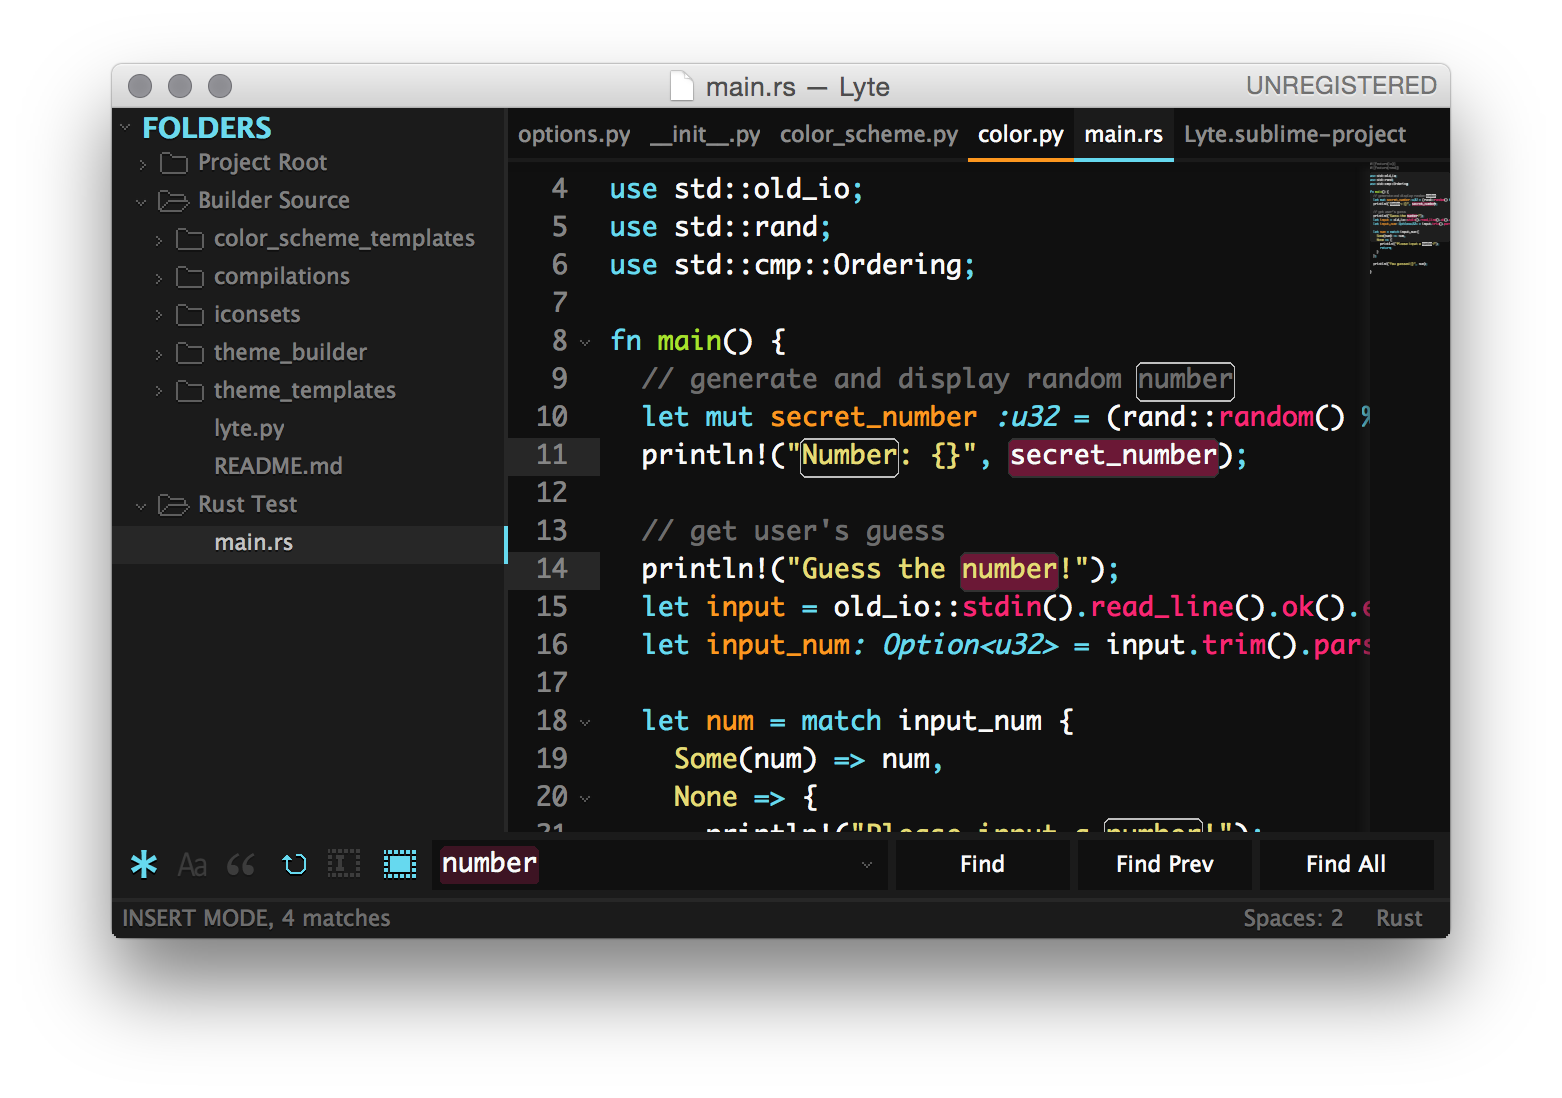
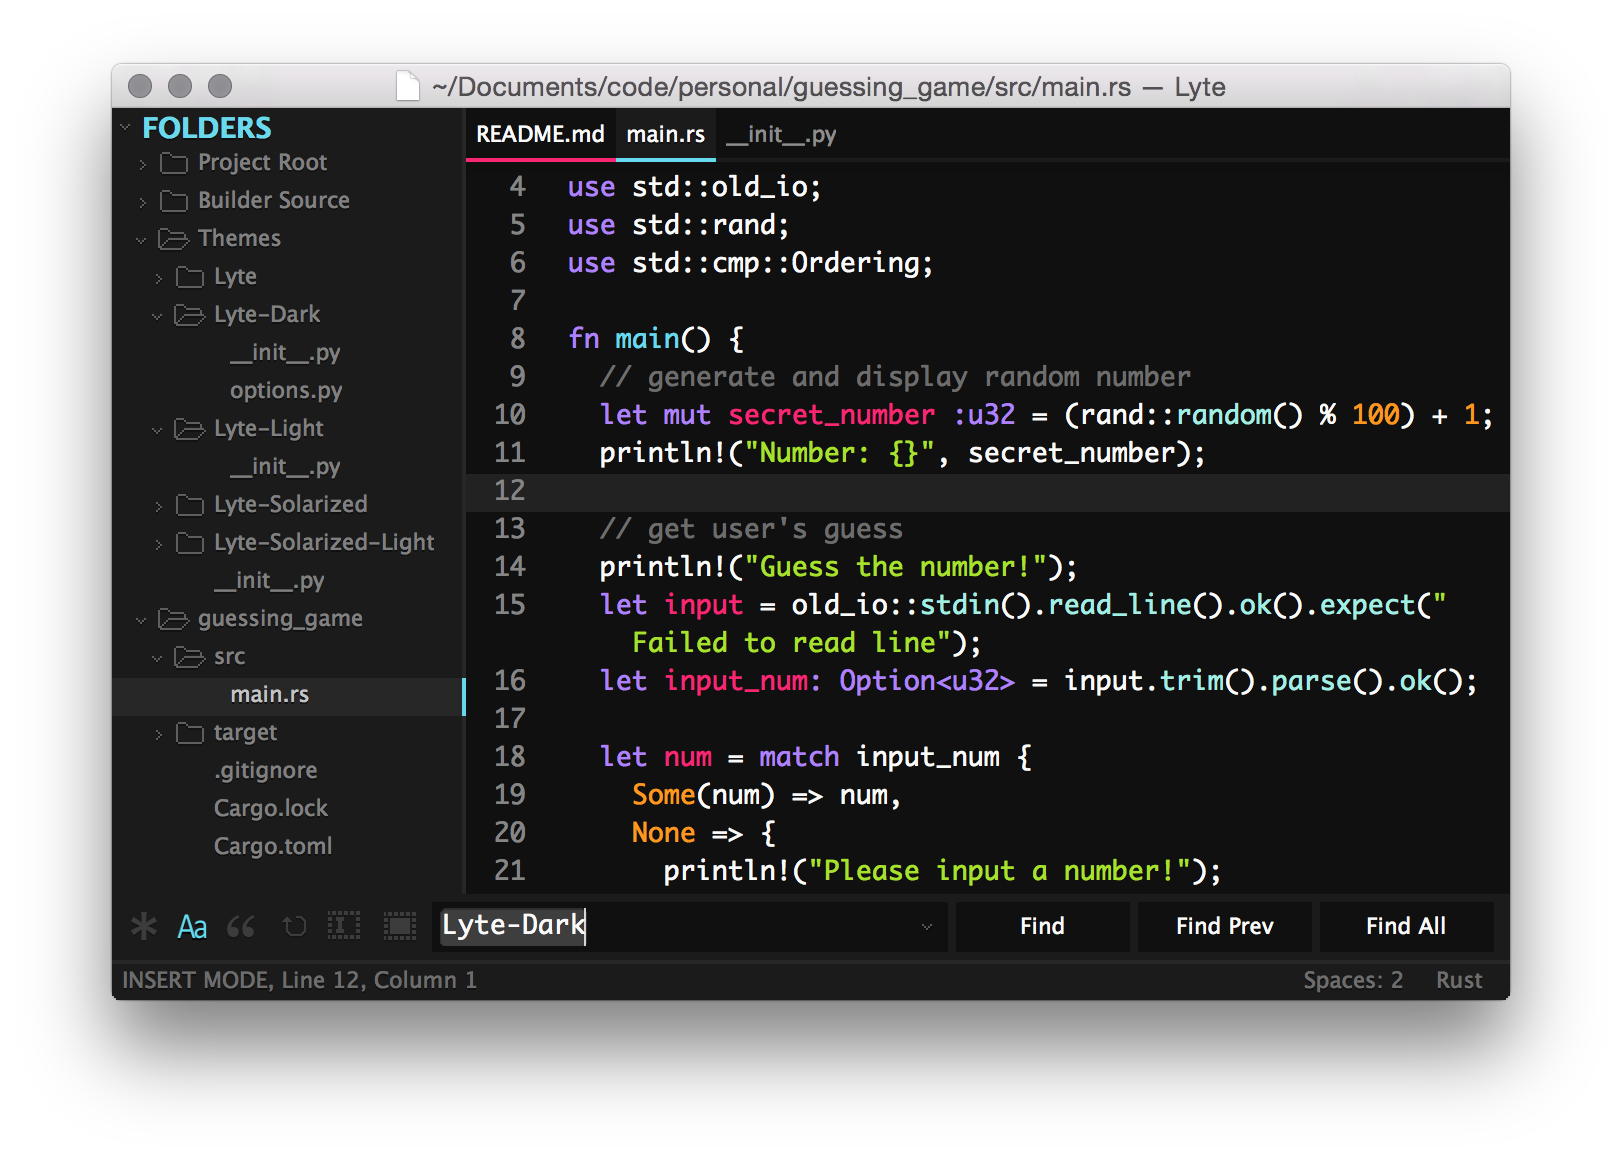
added new screenshots

Changed region(s): [[0.0615, 0.0619, 0.9526, 0.867], [0.8297, 0.7741, 0.8912, 0.8051]]

diff --git a/README.md b/README.md
@@ -7,6 +7,8 @@ Lyte is a set of themes for Sublime Text with fancy-schmancy border file status 
 * Other settings to get your environment to look like this can be found in the Recommendations section
 
 ![Lyte-Dark Theme][9]
+![Lyte-Solarized Theme][10]
+![Lyte-Solarized-Light Theme][11]
 
 ## Installation
 
@@ -200,6 +202,6 @@ The following details apply to the Creative Commons license "author specified" c
 [6]: http://creativecommons.org/licenses/by-sa/3.0/
 [7]: https://github.com/jisaacks/GitGutter
 [9]: https://raw.githubusercontent.com/lytedev/lyte-theme/master/screenshots/dark.png
-[10]: https://raw.githubusercontent.com/lytedev/lyte-theme/master/screenshots/light.png
-[11]: https://raw.githubusercontent.com/lytedev/lyte-theme/master/screenshots/solarized-dark.png
-[12]: https://raw.githubusercontent.com/lytedev/lyte-theme/master/screenshots/solarized-light.png
+[10]: https://raw.githubusercontent.com/lytedev/lyte-theme/master/screenshots/solarized.png
+[11]: https://raw.githubusercontent.com/lytedev/lyte-theme/master/screenshots/solarized-light.png
+
